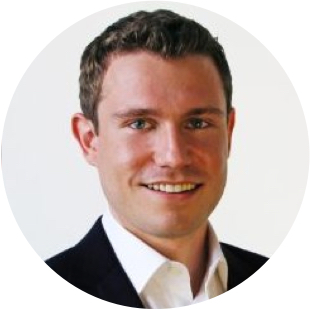
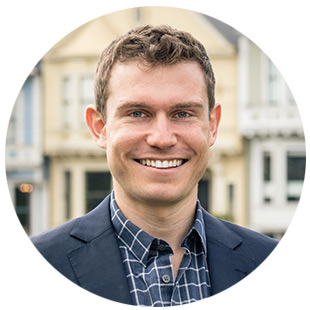
styles in about

diff --git a/src/components/Pages/About/index.js b/src/components/Pages/About/index.js
@@ -74,14 +74,17 @@ export default class About extends Component {
               md={4} mdOffset={0}
               lg={4} lgOffset={0}
             >
-              <span className={s.circle} />
+              
               <p className={s.head}>
+               <img src={require('./files/p1.jpg')} />
                 The system is rigged
               </p>
               <p className={s.text}>
+               
                 Nobody can responsibly buy their first home by themselves, even with a supportive bank.
               </p>
               <p className={s.text}>
+               
                 Without partners, millions of Americans are making excessively risky investment decisions that the bankers themselves would never make.
               </p>
             </Col>
@@ -92,8 +95,9 @@ export default class About extends Component {
               md={4} mdOffset={0}
               lg={4} lgOffset={0}
             >
-              <span className={s.circle} />
+              
               <p className={s.head}>
+              <img src={require('./files/p2.jpg')} />
                 Together, there is another way
               </p>
               <p className={s.text}>
@@ -110,8 +114,9 @@ export default class About extends Component {
               md={4} mdOffset={0}
               lg={4} lgOffset={0}
             >
-              <span className={s.circle} />
+             
               <p className={s.head}>
+              <img src={require('./files/p3.jpg')} />
                 Less vulnerability, more wealth
               </p>
               <p className={s.text}>

diff --git a/src/components/Pages/About/index.css b/src/components/Pages/About/index.css
@@ -7,6 +7,8 @@
 .page-header {
   text-align: center;
   background: $green;
+  background: url(./files/bg.jpg);
+  background-size: cover;
 
   .title {
     font-family: $janon;
@@ -18,6 +20,7 @@
     max-width: 700px;
 
     margin-top: 260px;
+
   }
 
   .intro {
@@ -29,6 +32,8 @@
     margin: 20px 0 140px;
   }
 }
+
+
 
 .head {
   font-family: $janon;
@@ -56,6 +61,11 @@
 
 .about {
   text-align: center;
+  margin-top: 15px;
+
+  img{
+    margin-bottom: 15px;
+  }
 
   .circle {
     width: 44px;
@@ -77,12 +87,13 @@
   }
 
   .head {
+
     font-family: $janon;
     font-size: 23px;
     line-height: 26px;
     color: $green;
     font-style: italic;
-
+    padding-top: 15px;
     text-align: left;
     margin-bottom: 20px;
   }

diff --git a/src/components/Pages/Home/index.css b/src/components/Pages/Home/index.css
@@ -54,9 +54,10 @@
 .learn, .get-started {
   font-size: 18px;
   color: $green;
+
   -webkit-font-smoothing: antialiased;
 
-  // margin-top: 5px;
+  // margin-top: 20px;
   padding: 8px 40px;
 
   background: rgba(255,255,255,1);
@@ -80,6 +81,8 @@
     border: 2px solid rgba(0, 150, 105, 1);
   }
 }
+
+
 
 .calculate,  .program {
   
@@ -403,12 +406,16 @@
 
 .how {
   padding: 80px 0;
+  margin-top: 15px;
+
 
   text-align: center;
 
   border-top: 1px solid rgb(233,233,233);
 
   .one-two-three {
+
+  margin-bottom: 25px;
 
     img {
       width: 80%;
@@ -435,6 +442,7 @@
       width: 80%;
       margin-top: 20px;
       margin-left: 10%;
+
     }
   }
 
